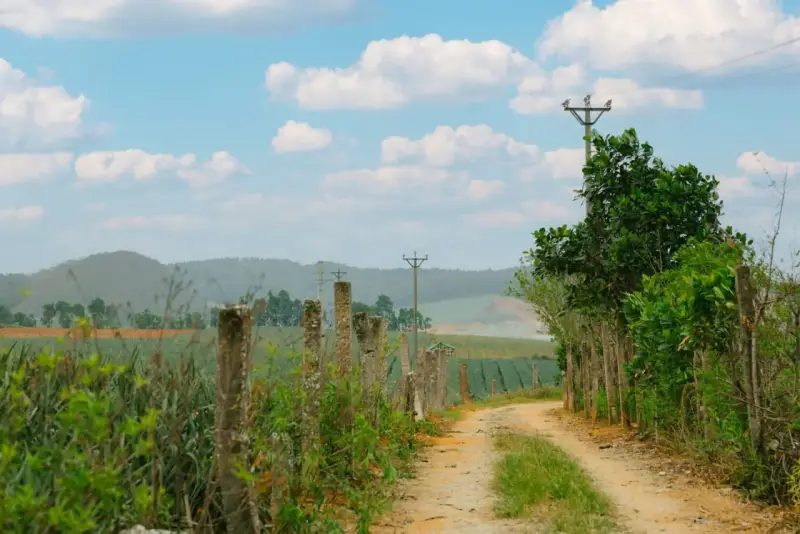
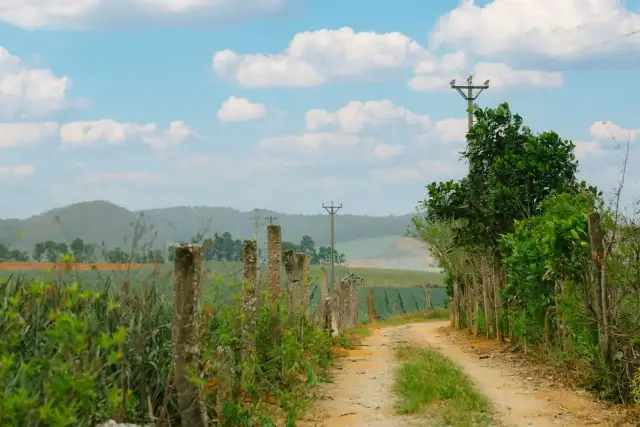
perf(p1-04): store seed covers at card size, 640 px wide

Changed region(s): [[0.7812, 0.274, 0.8125, 0.3044]]

diff --git a/docs/spec/SPEC.md b/docs/spec/SPEC.md
@@ -119,7 +119,7 @@ Name the data shape before writing code. These tables live in Supabase Postgres.
 
 ### 5.3 Property
 
-- `properties`: nickname (e.g. "Nhà Q7"), code (short, unique per household, used in invoice numbers), kind, kind_details (jsonb validated per kind, see below), use_mode, legal_status, current_address (jsonb: house_no, street, commune_code, province_code, line), certificate_address_text, location (PostGIS point), boundary (PostGIS polygon, optional), cover_photo_path (the object `<household_id>/<id>/<name>` in the private `property-photos` bucket, held by a check to the row's own household and id; shown through signed URLs from the member's session), acquired_on, acquisition_kind (`purchase | inheritance | gift | allocation | other`), acquisition_price_vnd, notes. Soft delete.
+- `properties`: nickname (e.g. "Nhà Q7"), code (short, unique per household, used in invoice numbers), kind, kind_details (jsonb validated per kind, see below), use_mode, legal_status, current_address (jsonb: house_no, street, commune_code, province_code, line), certificate_address_text, location (PostGIS point), boundary (PostGIS polygon, optional), cover_photo_path (the object `<household_id>/<id>/<name>` in the private `property-photos` bucket, held by a check to the row's own household and id; a card-size image about 640 px wide, so an upload is resized before it is stored; shown through signed URLs from the member's session), acquired_on, acquisition_kind (`purchase | inheritance | gift | allocation | other`), acquisition_price_vnd, notes. Soft delete.
   - kind: `townhouse | apartment | villa | rooming_house | commercial_space | warehouse | residential_land | agricultural_land | mixed | other`.
   - kind_details by kind: apartment {building_name, block, floor, unit_no, management_fee_vnd}; rooming_house {room_count}; land kinds {frontage_m, road_width_m}; others {}.
   - use_mode: `rental | owner_occupied | family_use | own_business | held | under_renovation`.

diff --git a/supabase/seed/photos/ATTRIBUTION.md b/supabase/seed/photos/ATTRIBUTION.md
@@ -4,7 +4,7 @@ Demo cover photos for the seeded properties. `scripts/seed-photos.ts` uploads ea
 
 Every photo here comes from Pexels under the Pexels License (https://www.pexels.com/license/): free use, editing allowed, attribution optional. Not allowed: reselling unaltered copies, redistributing on competing stock sites, or implying that a person or brand endorses a product. Each photo page showed "Free" with no editorial or sponsored label when checked on 2026-10-16.
 
-Each file started as the 1280 px wide WebP made from the Pexels download `https://images.pexels.com/photos/<id>/pexels-photo-<id>.jpeg?auto=compress&cs=tinysrgb&w=1600` with `cwebp` at quality 72. P1-04 resized each to 800 px wide with `cwebp -q 72 -resize 800 0 -metadata none`, because a signed storage URL skips the image optimizer and a phone card should cost about 60 KB.
+Each file started as the 1280 px wide WebP made from the Pexels download `https://images.pexels.com/photos/<id>/pexels-photo-<id>.jpeg?auto=compress&cs=tinysrgb&w=1600` with `cwebp` at quality 72. P1-04 re-encoded each to the card size, 640 px wide, with `cwebp -q 60 -resize 640 0 -metadata none`: a signed storage URL skips the image optimizer, the card shows the cover at most about 380 CSS px wide, and the six covers on a phone's first load must stay under 300 KB (about 220 KB at this size).
 
 | File | Shows | Author | Source page | Edits |
 | --- | --- | --- | --- | --- |
